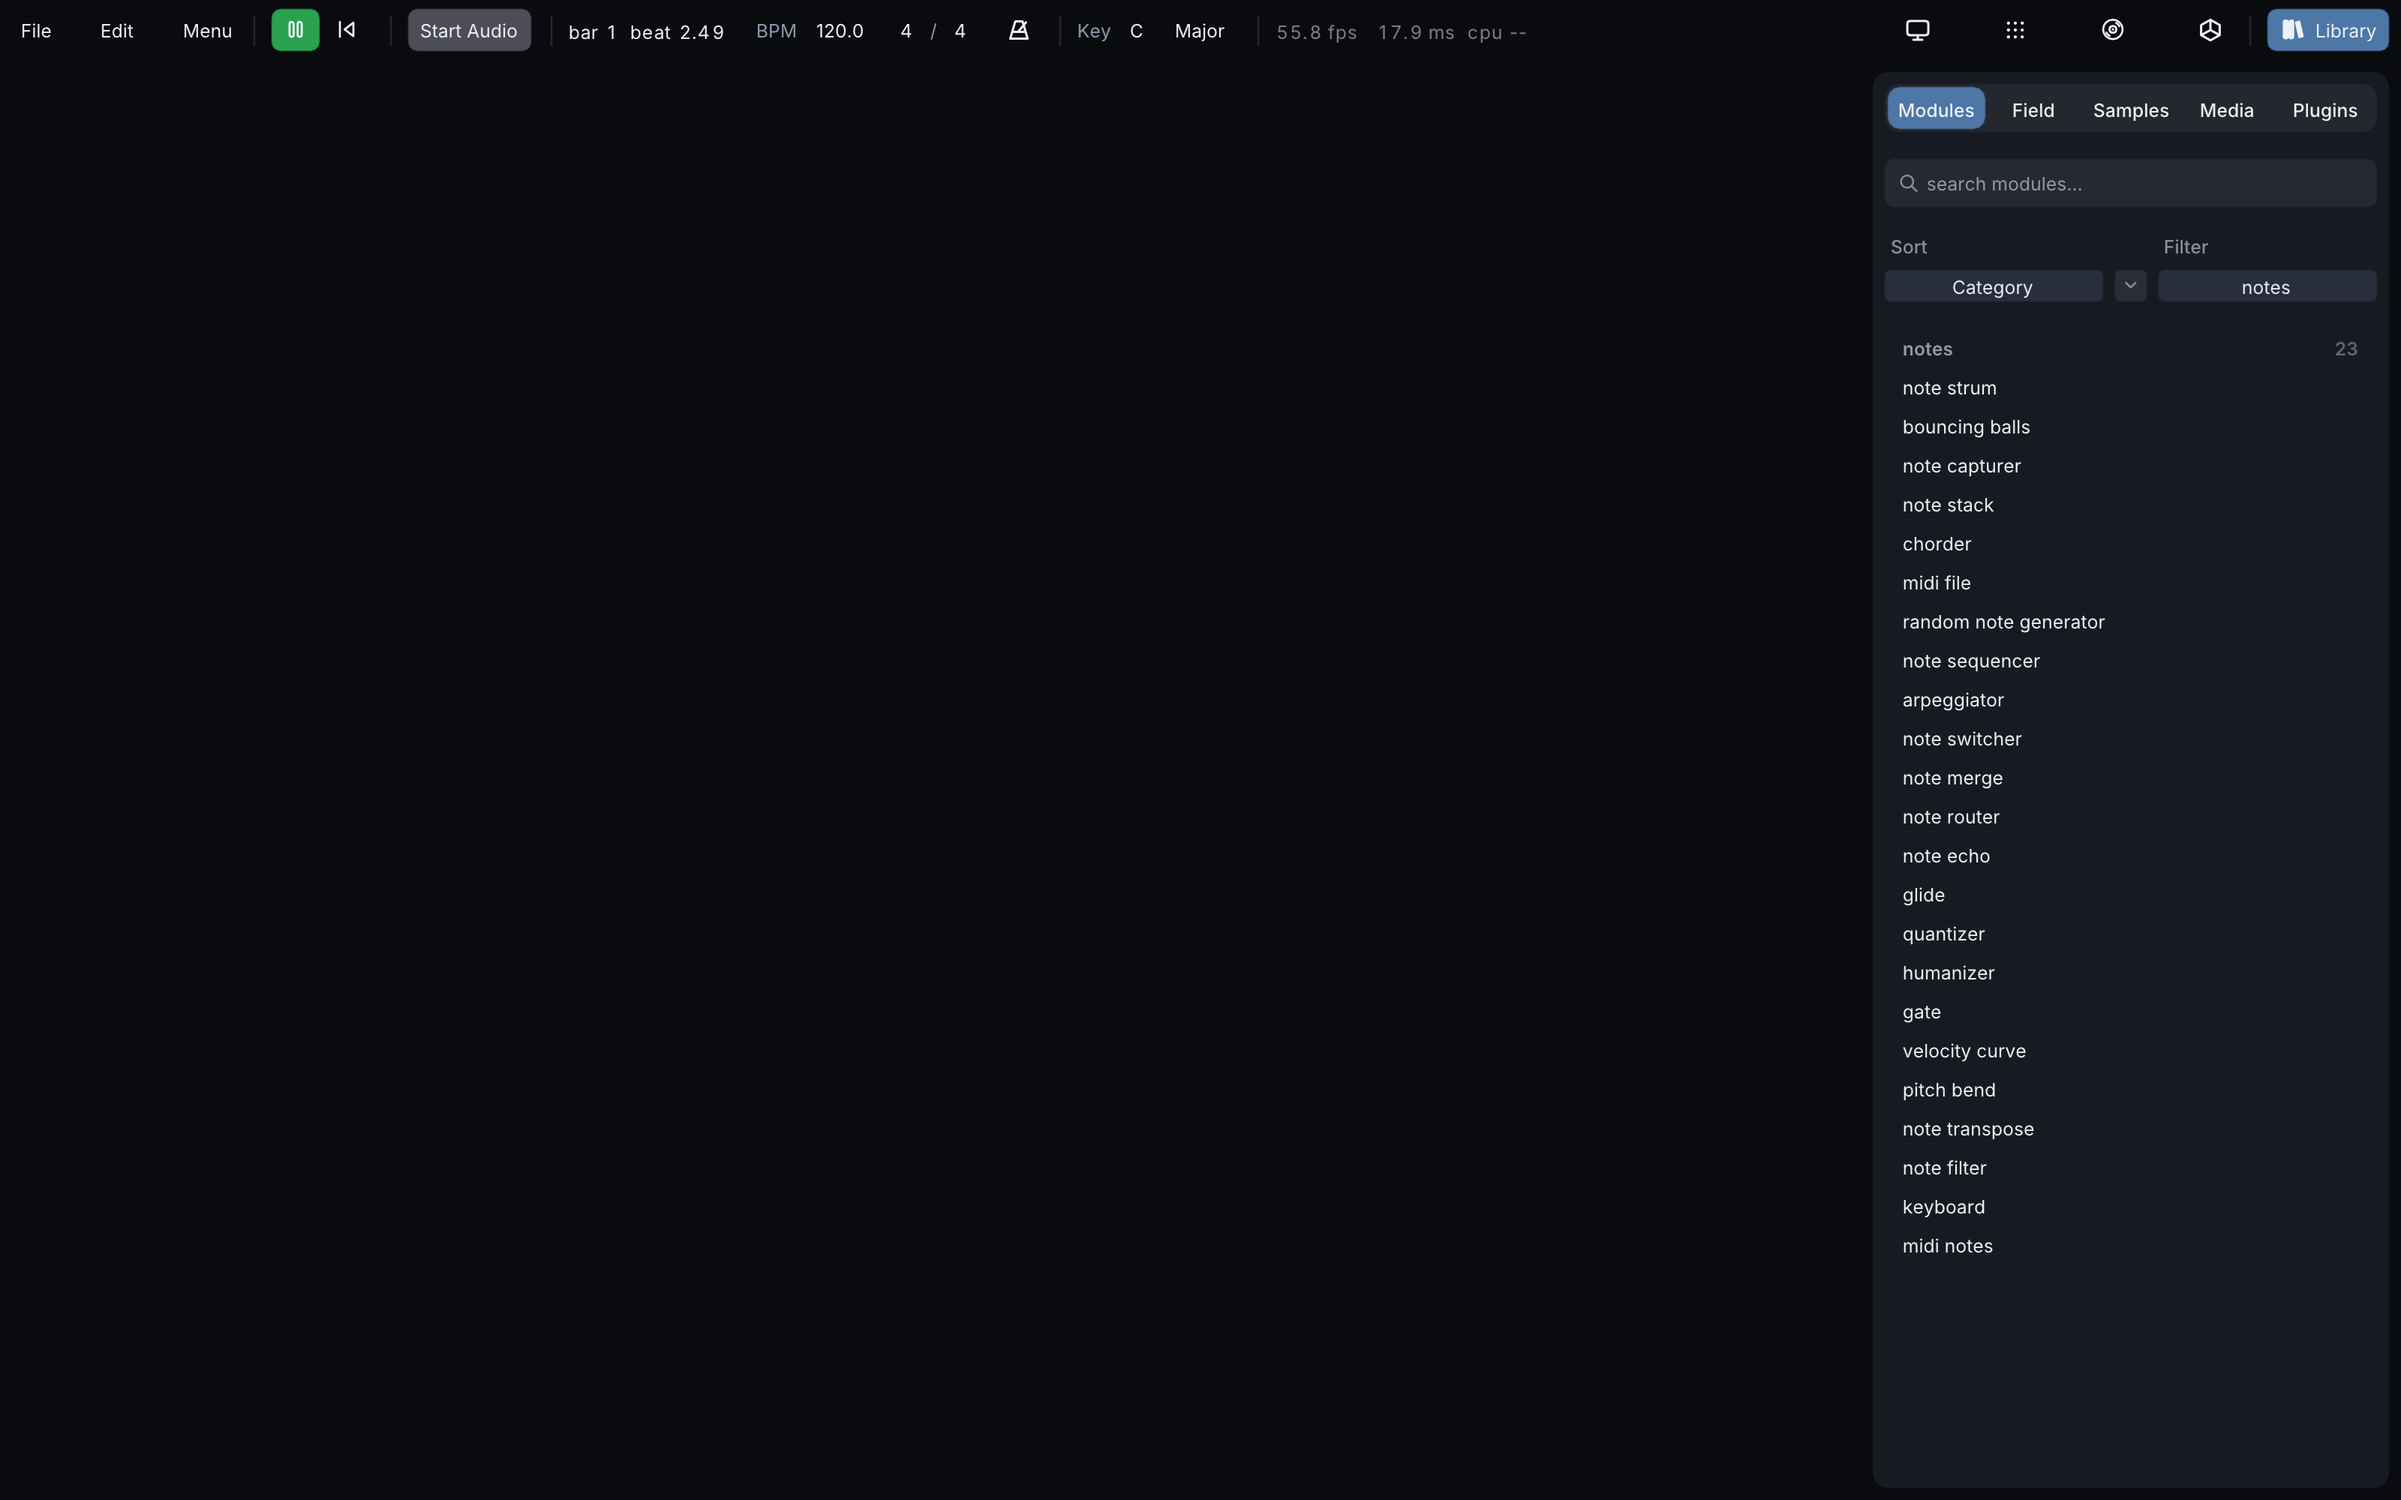
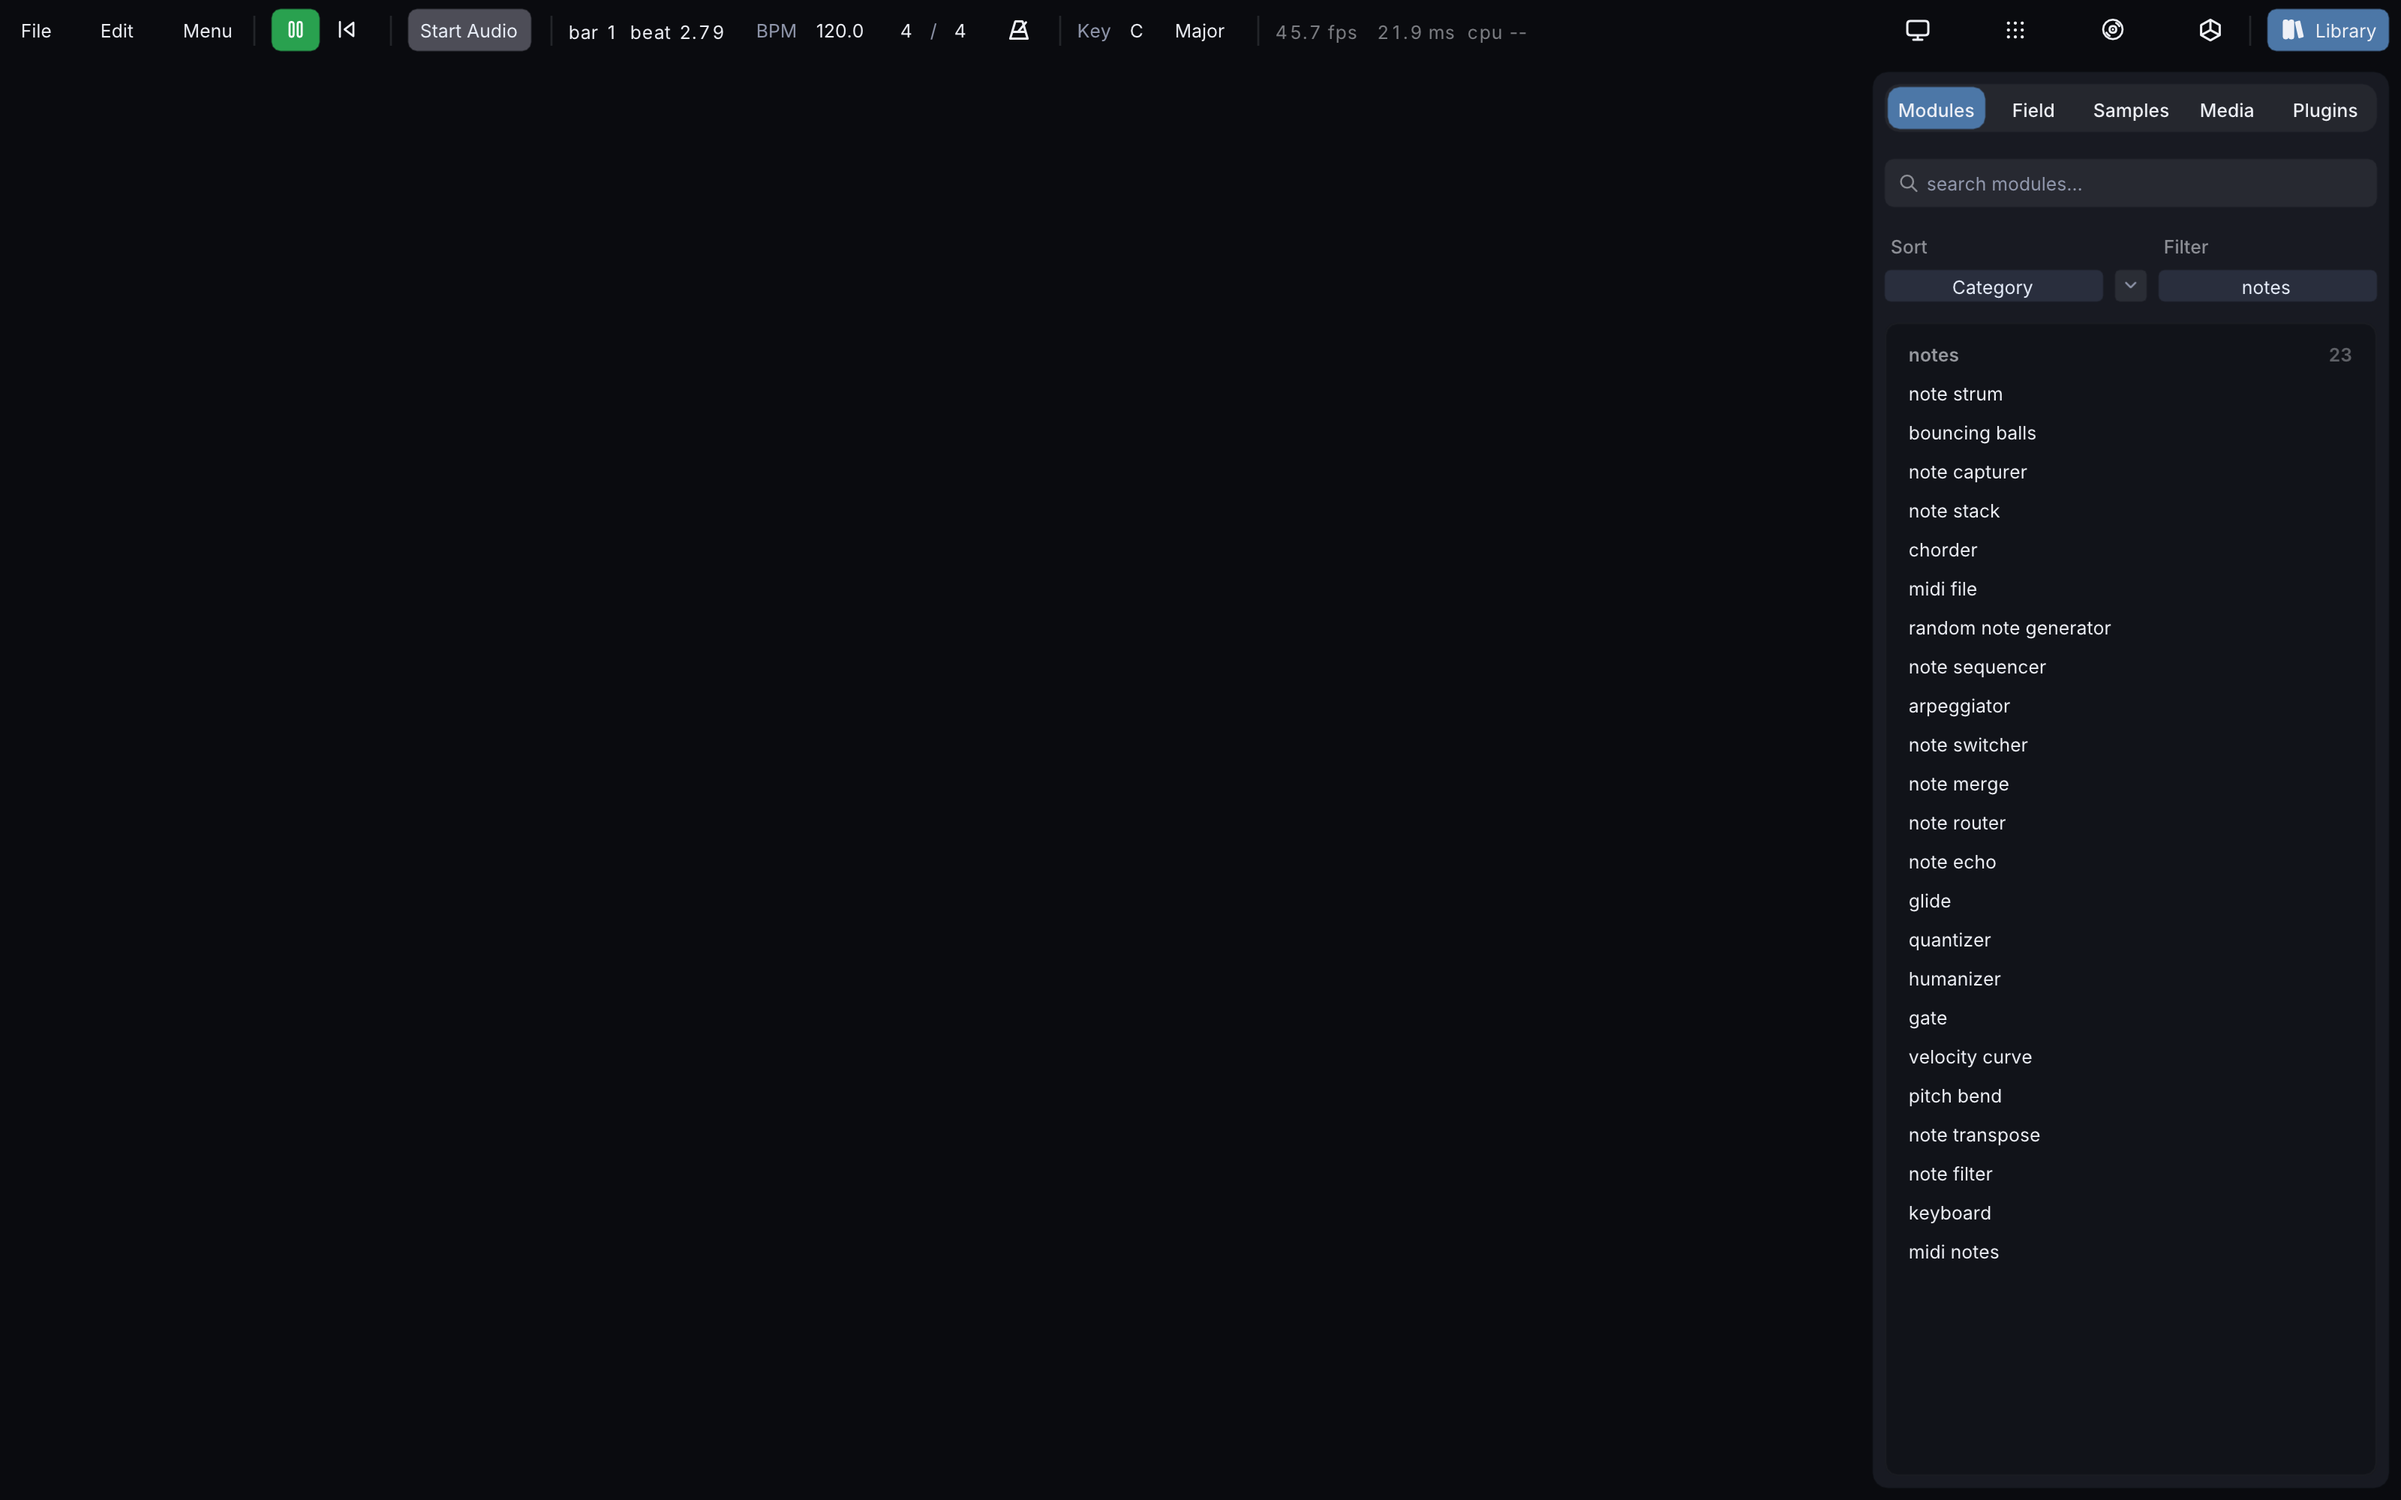
Library panel: list in a recessed well so controls read as a header

Changed region(s): [[0.7812, 0.217, 0.875, 0.837]]

diff --git a/src/app/frame/StageSidePanels.cpp b/src/app/frame/StageSidePanels.cpp
@@ -355,7 +355,22 @@ void DrawSidePanels(FrameCtx& fc)
                   ? categoryIds[gModulesFilter.typeFilter] : std::string();
 
             std::string spawnName, spawnCategory;
-            ImGui::BeginChild("##nodepanellist", ImVec2(0, 0), false);
+            // The list sits in a recessed well, so the controls above read as a header and the list as its own
+            // surface: darker than the card, rounded, with a faint rim.
+            {
+               const ImVec2 w0 = ImGui::GetCursorScreenPos();
+               const ImVec2 w1(w0.x + ImGui::GetContentRegionAvail().x,
+                               w0.y + ImGui::GetContentRegionAvail().y);
+               const bool light = CategoryColors::IsThemeLight();
+               ImDrawList* wdl = ImGui::GetWindowDrawList();
+               wdl->AddRectFilled(w0, w1, light ? IM_COL32(0, 0, 0, 10) : IM_COL32(0, 0, 0, 70), tok::radius_pill);
+               wdl->AddRect(w0, w1, light ? IM_COL32(0, 0, 0, 14) : IM_COL32(255, 255, 255, 10), tok::radius_pill);
+            }
+            ImGui::PushStyleColor(ImGuiCol_ChildBg, ImVec4(0, 0, 0, 0));
+            ImGui::PushStyleVar(ImGuiStyleVar_WindowPadding, ImVec2(tok::space_1, tok::space_1));
+            ImGui::BeginChild("##nodepanellist", ImVec2(0, 0), ImGuiChildFlags_AlwaysUseWindowPadding);
+            ImGui::PopStyleVar();
+            ImGui::PopStyleColor();
 
             // No cache: at ~170 entries, filtering+sorting this list from
             // NodeFactory every frame is well under the cost that made
